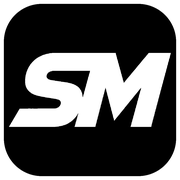
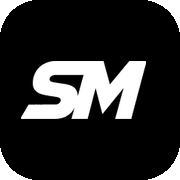
minor change

Changed region(s): [[0.0, 0.0, 1.0, 1.0], [0.25, 0.3889, 0.5, 0.5556]]

diff --git a/apps/web/src/components/notifications/NotificationBell.tsx b/apps/web/src/components/notifications/NotificationBell.tsx
@@ -1,5 +1,6 @@
-import { useEffect, useState } from "react";
+import { useEffect, useRef, useState } from "react";
 import { useNavigate } from "react-router";
+import { useQueryClient } from "@tanstack/react-query";
 import { Bell } from "lucide-react";
 import {
   formatNotificationTime,
@@ -10,6 +11,8 @@ import {
   useUnreadNotificationCount,
   type AppNotification,
 } from "@/features/notifications/model";
+import { clearFundingSuccess } from "@/features/wallets/fundingSuccess";
+import { WORKSPACE_QUERY_KEY } from "@/hooks/useWorkspace";
 
 function NotificationItem({
   item,
@@ -37,7 +40,9 @@ function NotificationItem({
 /** Shared inbox bell for tenant + platform topbars. */
 export function NotificationBell() {
   const [open, setOpen] = useState(false);
+  const wrapRef = useRef<HTMLDivElement>(null);
   const navigate = useNavigate();
+  const queryClient = useQueryClient();
   const unread = useUnreadNotificationCount();
   const recent = useRecentNotifications({ page: 1, limit: 20 });
   const markRead = useMarkNotificationRead();
@@ -50,6 +55,20 @@ export function NotificationBell() {
     }
     document.addEventListener("keydown", onKey);
     return () => document.removeEventListener("keydown", onKey);
+  }, [open]);
+
+  // Close when clicking outside. The fixed scrim can be clipped by shell overflow,
+  // so also listen on the document.
+  useEffect(() => {
+    if (!open) return;
+    function onPointerDown(e: PointerEvent) {
+      const wrap = wrapRef.current;
+      if (!wrap) return;
+      if (wrap.contains(e.target as Node)) return;
+      setOpen(false);
+    }
+    document.addEventListener("pointerdown", onPointerDown, true);
+    return () => document.removeEventListener("pointerdown", onPointerDown, true);
   }, [open]);
 
   useEffect(() => {
@@ -75,6 +94,15 @@ export function NotificationBell() {
     close();
     const href = resolveNotificationLink(item.link);
     if (!href) return;
+
+    // Funded / wallet deep-links should open the live dashboard, not the
+    // post-submit "Funding request submitted" screen kept in sessionStorage.
+    const isWalletLink = href.includes("/wallets");
+    if (item.type === "wallet_funded" || isWalletLink) {
+      clearFundingSuccess();
+      void queryClient.invalidateQueries({ queryKey: WORKSPACE_QUERY_KEY });
+    }
+
     if (/^https?:\/\//i.test(href)) {
       window.location.assign(href);
       return;
@@ -92,7 +120,7 @@ export function NotificationBell() {
   }
 
   return (
-    <div className="notif-bell-wrap">
+    <div className="notif-bell-wrap" ref={wrapRef}>
       <button
         type="button"
         className="notif-bell-btn"
@@ -111,7 +139,12 @@ export function NotificationBell() {
 
       {open ? (
         <>
-          <button type="button" className="user-menu-scrim" aria-label="Close notifications" onClick={close} />
+          <button
+            type="button"
+            className="user-menu-scrim"
+            aria-label="Close notifications"
+            onClick={close}
+          />
           <div className="notif-panel" role="menu" onClick={(e) => e.stopPropagation()}>
             <div className="notif-panel-head">
               <div className="notif-panel-title">Notifications</div>

diff --git a/apps/web/src/features/wallets/controllers/useWalletsController.ts b/apps/web/src/features/wallets/controllers/useWalletsController.ts
@@ -85,10 +85,24 @@ export function useWalletsController(): WalletsScreen {
   }
 
   const storedSuccess = readFundingSuccess();
+  const doneWalletId =
+    (wizard.done && wizard.flow === "wallet" ? wizard.wallet.id : undefined) ||
+    storedSuccess?.walletId ||
+    walletId;
+  const doneOrg = orgForWallet(workspace, doneWalletId);
+  const fundingApproved = doneOrg.wallet.fundingApproval === "approved";
+  const fundingPending = doneOrg.wallet.fundingApproval === "pending";
+
+  // After finance approves, never keep the "Funding request submitted" screen —
+  // including stale sessionStorage from the original submit (e.g. notification deep-link).
+  if (fundingApproved && storedSuccess) {
+    clearFundingSuccess();
+  }
+
   const doneState =
-    wizard.done && wizard.flow === "wallet"
+    wizard.done && wizard.flow === "wallet" && !fundingApproved
       ? wizard
-      : storedSuccess
+      : storedSuccess && fundingPending
         ? wizardFromFundingSuccess(storedSuccess)
         : null;
   const successKey = doneState

diff --git a/apps/web/scripts/patch-favicon-svg.py b/apps/web/scripts/patch-favicon-svg.py
@@ -1,0 +1,13 @@
+from pathlib import Path
+p = Path("public/favicon.svg")
+t = p.read_text(encoding="utf-8")
+needle = '  <path fill="#fff"'
+insert = '  <g transform="translate(512 512) scale(0.78) translate(-475 -512)">\n  <path fill="#fff"'
+if "scale(0.78)" not in t:
+    if needle not in t:
+        raise SystemExit("needle missing")
+    t = t.replace(needle, insert, 1)
+    if "</g>" not in t:
+        t = t.replace("</svg>", "  </g>\n</svg>", 1)
+    p.write_text(t, encoding="utf-8")
+print("ok", "scale(0.78)" in p.read_text(encoding="utf-8"))
